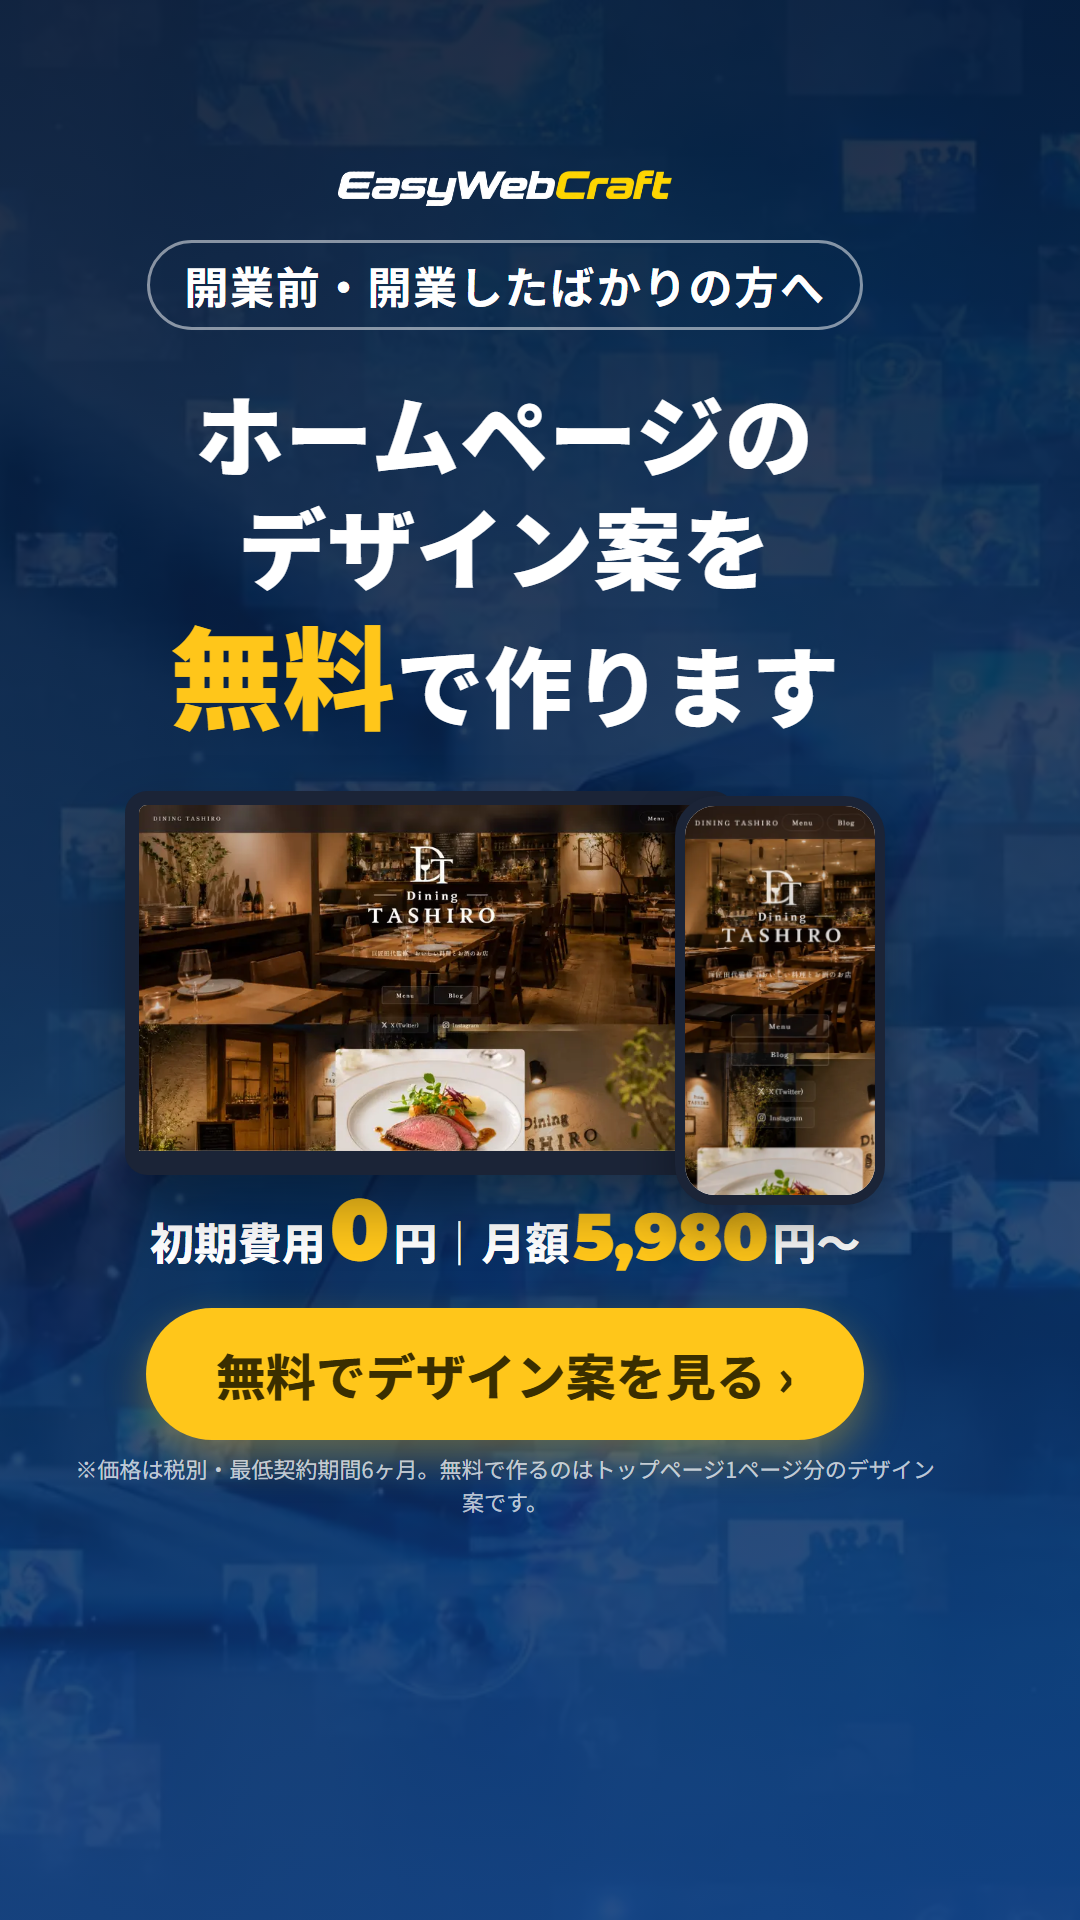
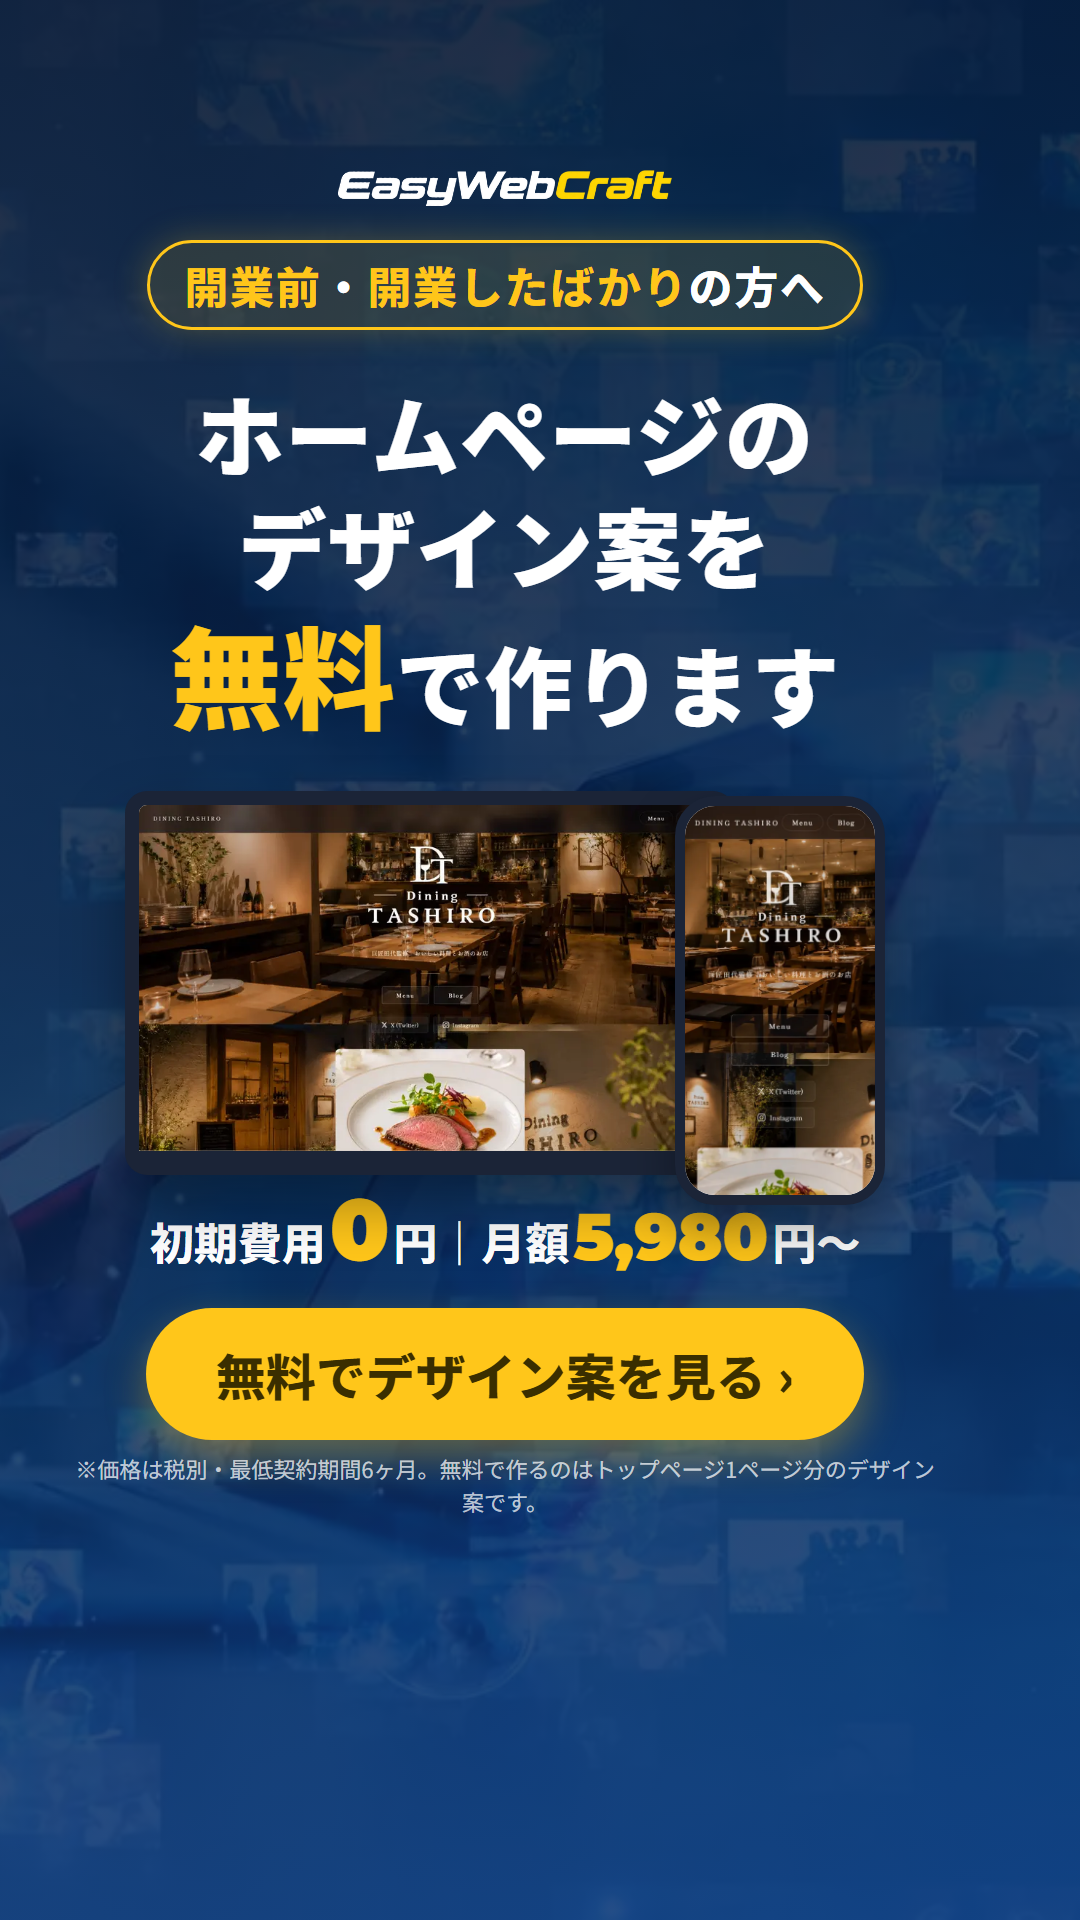
広告を今のLPに合わせる（08の流れ・09のAFTER項目・01/10の対象強調・OGPの対象）
- 08: LPのWHYと同じ「開業すると、こんなことが起こります」①名刺②Instagram③検索④「公式サイトはないの？」→そこでホームページ
- 09: AFTERの項目をLPと同じ サービス・料金・営業時間・アクセス・お問い合わせ に
- 01・10: 「開業前・開業したばかりの方へ」をLPと同じ黄色枠・黄色文字で強調
- ogp.html: 対象を「開業前・開業したばかりの方の」に

Claude-Session: https://claude.ai/code/session_01G65TiHfa1BUco43NvNDLJF

Changed region(s): [[0.1222, 0.125, 0.7944, 0.1875]]

diff --git a/ads.html b/ads.html
@@ -29,6 +29,8 @@ body{width:1080px; font-family:"Noto Sans JP",sans-serif; color:#fff; background
 .num{font-family:var(--num); font-weight:900}
 .y{color:var(--accent)}
 .kicker{font-size:44px; font-weight:700; letter-spacing:.04em}
+.kicker.pill.tgt{border-color:var(--accent); background:rgba(255,198,26,.12); box-shadow:0 0 34px rgba(255,198,26,.25); font-weight:800}
+.kicker.tgt span{color:var(--accent)}
 .kicker.pill{border:3px solid rgba(255,255,255,.5); border-radius:999px; padding:10px 34px}
 .light .kicker.pill{border-color:var(--navy); color:var(--navy)}
 h1{font-weight:900; line-height:1.28; letter-spacing:.01em}
@@ -65,6 +67,11 @@ h1{font-weight:900; line-height:1.28; letter-spacing:.01em}
 /* 開業前の状態 */
 .states{display:grid; grid-template-columns:1fr 1fr; gap:16px; width:820px}
 .states span{background:rgba(255,255,255,.1); border:2px solid rgba(255,255,255,.3); border-radius:18px; padding:22px 6px; font-size:31px; font-weight:800; white-space:nowrap}
+.scene.sm{gap:26px; width:700px}
+.scene.sm li{font-size:38px; padding:16px; white-space:nowrap}
+.scene.sm li + li::before{top:-33px; font-size:26px}
+.ba.sm .phone{width:250px}
+.ba.sm .chips{width:300px}
 /* 画像部品 */
 .mock{position:relative; width:760px; padding-right:150px}
 .mock .pc{border:14px solid #1b2437; border-bottom-width:24px; border-radius:22px; overflow:hidden; background:#fff; box-shadow:0 30px 60px rgba(0,0,0,.35)}
@@ -116,6 +123,7 @@ h1{font-weight:900; line-height:1.28; letter-spacing:.01em}
 .scene li{list-style:none; position:relative; background:rgba(255,255,255,.1); border:3px solid rgba(255,255,255,.3); border-radius:22px; padding:22px; font-size:44px; font-weight:800}
 .scene li + li::before{content:"↓"; position:absolute; top:-40px; left:50%; transform:translateX(-50%); color:var(--sub); font-size:30px; font-weight:400}
 .scene li.hp{background:var(--accent); border-color:var(--accent); color:var(--accent-ink)}
+.scene li.q.ng{border-color:#f0937d; color:#ffd2c7}
 .scene li.q{background:transparent; border-style:dashed}
 
 .big0{font-family:var(--num); font-weight:900; font-size:330px; line-height:.9; color:var(--accent); text-shadow:0 20px 60px rgba(255,198,26,.35)}
@@ -129,7 +137,7 @@ h1{font-weight:900; line-height:1.28; letter-spacing:.01em}
 <!-- 1. LPのFVと同じメッセージ（第一候補） -->
 <section class="ad photo" id="a1"><div class="in">
   <p class="brand"><img src="img/logo-mark.webp" alt="EasyWebCraft"></p>
-  <p class="kicker pill">開業前・開業したばかりの方へ</p>
+  <p class="kicker pill tgt"><span>開業前</span>・<span>開業したばかり</span>の方へ</p>
   <div class="gap-m"></div>
   <h1 class="h-l">ホームページの<br>デザイン案を<br><span class="y" style="font-size:112px">無料</span>で作ります</h1>
   <div class="gap-m"></div>
@@ -242,19 +250,18 @@ h1{font-weight:900; line-height:1.28; letter-spacing:.01em}
 <!-- 8. 名刺を渡したあと -->
 <section class="ad photo" id="a8"><div class="in">
   <p class="brand"><img src="img/logo-mark.webp" alt="EasyWebCraft"></p>
-  <p class="kicker pill">開業後、こんな場面があります</p>
+  <p class="kicker pill">開業すると、こんなことが起こります</p>
   <div class="gap-l"></div>
-  <ol class="scene">
-    <li>名刺を渡す</li>
-    <li>店名・会社名を検索される</li>
-    <li class="q">「どんな事業なんだろう？」</li>
-    <li class="hp">ホームページ</li>
+  <ol class="scene sm">
+    <li>① 名刺を渡す</li>
+    <li>② Instagramを見てもらう</li>
+    <li>③ 店名・会社名を検索される</li>
+    <li class="q ng">④「公式サイトはないの？」</li>
+    <li class="hp">そこでホームページ</li>
   </ol>
   <div class="gap-l"></div>
-  <p class="sub">確かめられる場所があると、<br>はじめての相手も<span class="y">安心</span>です</p>
+  <p class="sub">事業内容を確認できる<br>ホームページがあると<span class="y">安心</span>です</p>
   <div class="sp"></div>
-  <p class="free">デザイン案まで<b>無料</b></p>
-  <div class="gap-s"></div>
   <p class="cta">無料でデザイン案を見る</p>
 </div><p class="fine">※価格は税別・最低契約期間6ヶ月。無料で作るのはトップページ1ページ分のデザイン案です。</p></section>
 
@@ -263,7 +270,7 @@ h1{font-weight:900; line-height:1.28; letter-spacing:.01em}
   <p class="brand"><img src="img/logo-mark.webp" alt="EasyWebCraft"></p>
   <h1 class="h-m">「SNSだけ」から<br><span class="y">「公式サイトがある」</span>へ</h1>
   <div class="gap-s"></div>
-  <div class="ba">
+  <div class="ba sm">
     <figure class="before"><div class="phone"><div class="sns">
       <div class="bar">instagram</div>
       <div class="prof"><span class="av"></span><div style="flex:1"><div class="ln"></div><div class="ln" style="width:60%"></div></div></div>
@@ -271,7 +278,7 @@ h1{font-weight:900; line-height:1.28; letter-spacing:.01em}
       <div class="qs"><span>料金どこ？</span><span>営業時間は？</span></div>
     </div></div><figcaption>BEFORE</figcaption><div class="chips ng"><span>情報が埋もれる</span></div></figure>
     <span class="arr">→</span>
-    <figure class="after"><div class="phone"><img src="img/m-salon.webp" alt=""></div><figcaption class="y">AFTER</figcaption><div class="chips"><span>料金</span><span>営業時間</span><span>アクセス</span><span>予約</span></div></figure>
+    <figure class="after"><div class="phone"><img src="img/m-salon.webp" alt=""></div><figcaption class="y">AFTER</figcaption><div class="chips"><span>サービス</span><span>料金</span><span>営業時間</span><span>アクセス</span><span>お問い合わせ</span></div></figure>
   </div>
   <div class="sp" style="min-height:30px"></div>
   <p class="free">デザイン案まで<b>無料</b></p>
@@ -282,7 +289,7 @@ h1{font-weight:900; line-height:1.28; letter-spacing:.01em}
 <!-- 10. 1日約200円 -->
 <section class="ad photo" id="a10"><div class="in">
   <p class="brand"><img src="img/logo-mark.webp" alt="EasyWebCraft"></p>
-  <p class="kicker pill">開業前・開業したばかりの方へ</p>
+  <p class="kicker pill tgt"><span>開業前</span>・<span>開業したばかり</span>の方へ</p>
   <div class="gap-l"></div>
   <p class="sub" style="font-size:56px">ホームページが</p>
   <p class="day">1日約<span class="num">200</span>円から</p>

diff --git a/index.html b/index.html
@@ -125,10 +125,10 @@ code{background:var(--bg); padding:0 5px; border-radius:4px}
         <p class="dl"><a href="out/ad05.png" download>PNGを保存</a>（ad05.png）</p>
       </article>
       <article class="card">
-        <a href="out/ad08.png" target="_blank" rel="noopener"><img src="jpg/ad08.jpg" alt="名刺→検索→ホームページ" loading="lazy" width="1080" height="1920"></a>
-        <p class="no"><b>+2</b>名刺→検索→ホームページ</p>
+        <a href="out/ad08.png" target="_blank" rel="noopener"><img src="jpg/ad08.jpg" alt="開業すると、こんなことが起こります" loading="lazy" width="1080" height="1920"></a>
+        <p class="no"><b>+2</b>開業すると、こんなことが起こります</p>
         <p class="tgt">予備</p>
-        <p class="cap"><span>広告文案</span>名刺を渡したあと、店名で検索されることも。確かめられる場所を用意しませんか？</p>
+        <p class="cap"><span>広告文案</span>名刺→Instagram→検索→「公式サイトはないの？」。事業内容を確認できるホームページがあると安心です。</p>
         <p class="dl"><a href="out/ad08.png" download>PNGを保存</a>（ad08.png）</p>
       </article>
       <article class="card">

diff --git a/ogp.html b/ogp.html
@@ -20,6 +20,8 @@ body{width:1200px; height:630px; overflow:hidden; font-family:"Noto Sans JP",san
 .right img{height:40px; width:auto}
 .head{font-size:46px; font-weight:900; line-height:1.3; white-space:nowrap}
 .head .y{color:#ffc61a}
+.head small{font-size:32px; font-weight:800; color:#fff}
+.head small .y{color:#ffc61a}
 .free{display:inline-block; background:#fff; color:#0d3a7d; font-size:26px; font-weight:800; border-radius:16px; padding:12px 22px; white-space:nowrap}
 .free b{color:#c8553d; font-size:36px; font-weight:900; margin-left:4px}
 .note{font-size:18px; color:rgba(255,255,255,.72)}
@@ -33,7 +35,7 @@ body{width:1200px; height:630px; overflow:hidden; font-family:"Noto Sans JP",san
   </div>
   <div class="right">
     <img src="img/logo-mark.webp" alt="EasyWebCraft">
-    <p class="head">これから開業する方の<br><span class="y">ホームページ制作</span></p>
+    <p class="head"><small><span class="y">開業前</span>・<span class="y">開業したばかり</span>の方の</small><br><span class="y">ホームページ制作</span></p>
     <p class="free">トップページのデザイン案まで<b>無料</b></p>
     <p class="note">※価格は税別・最低契約期間6ヶ月</p>
   </div>
